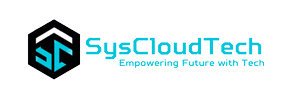
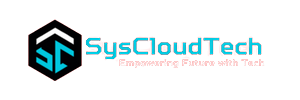
update files

Changed region(s): [[0.09, 0.18, 0.9, 0.81]]

diff --git a/src/routes/index.js b/src/routes/index.js
@@ -17,8 +17,16 @@ route.get('/contacts',(req,res)=>{
     res.render('contacts',{header_data:"| Contacts"})
 })
 
+route.get('/trainingDevelopment',(req,res)=>{
+    res.render('trainingDevelopment',{header_data:"| Training & Development"})
+})
+
 route.get('/blog',(req,res)=>{
     res.render('blog',{header_data:"| Blog"})
+})
+
+route.get('*',(req,res)=>{
+    res.render('error',{header_data:"| 404 Error"})
 })
 
 module.exports = route

diff --git a/public/css/style.css b/public/css/style.css
@@ -386,7 +386,7 @@ blockquote p {
 }
 .logo-holder {
 	position:absolute;
-	/* top:5px; */
+	top:-2px;
 	left:15px;
 }
 .logo-holder img {
